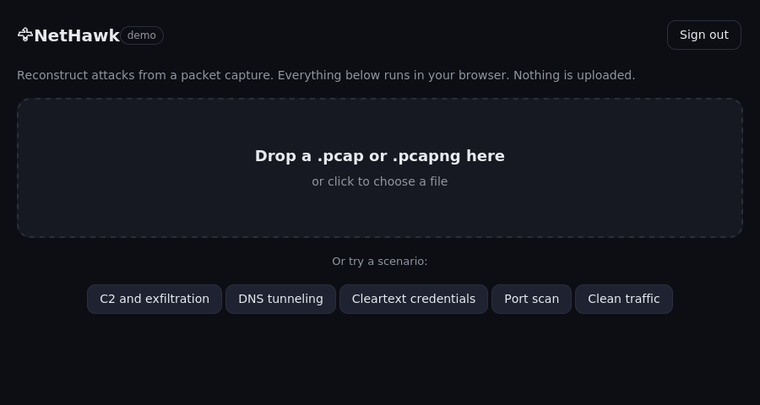
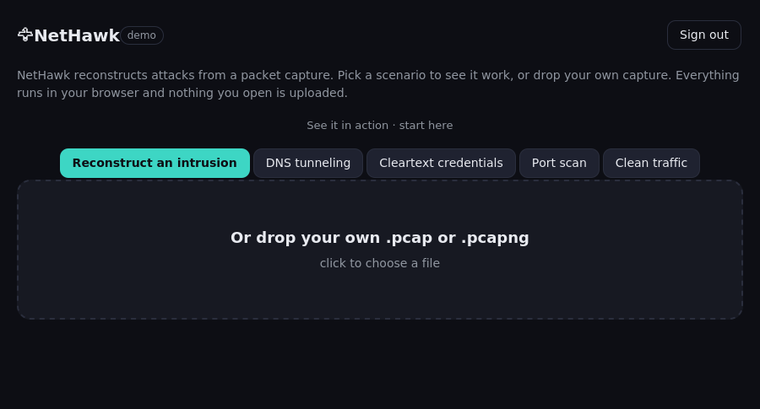
Lower the barrier to first use: one-click demo entry and a clearer storefront
Make the tool inviting to a newcomer. The demo now opens with the credentials
pre-filled so entry is a single Enter the demo click, framed as a friendly gate
rather than an auth wall, and the home leads with a highlighted Reconstruct an
intrusion so the first click gives the payoff. The README opens with a punchy
pitch, a prominent try-it-in-your-browser link, and a scannable why-you-would-use-it
list. Screenshots refreshed to match.

diff --git a/docs/index.html b/docs/index.html
@@ -15,7 +15,7 @@
 <div id="login" class="login">
   <div class="login-card">
     <div class="logo"><span style="font-size:24px">&#129413;</span><h1>NetHawk</h1></div>
-    <p class="sub">Sign in to the demo</p>
+    <p class="sub">See an attack reconstructed from a packet capture, right in your browser.</p>
     <form id="login-form" autocomplete="off">
       <div class="field">
         <label for="username">Username</label>
@@ -23,14 +23,13 @@
       </div>
       <div class="field">
         <label for="password">Password</label>
-        <input id="password" type="password">
+        <input id="password" type="password" value="nethawk">
       </div>
-      <button type="submit">Sign in</button>
+      <button type="submit">Enter the demo</button>
       <div id="login-err" class="login-err"></div>
     </form>
     <div class="hint">
-      Demo access. Username <b>demo</b>, password <b>nethawk</b>.<br>
-      This sign in is a front door for the public demo, not a security control. The check runs in your browser.
+      Already filled in, just press <b>Enter the demo</b>. Everything runs in your browser and nothing you open is uploaded. The sign in is a friendly gate for the public demo, not a security control.
     </div>
   </div>
 </div>
@@ -51,20 +50,20 @@
   </div>
 
   <div id="intro">
-    <p class="tag-line">Reconstruct attacks from a packet capture. Everything below runs in your browser. Nothing is uploaded.</p>
-    <div class="drop" id="drop">
-      <div class="big">Drop a .pcap or .pcapng here</div>
-      <div class="small">or click to choose a file</div>
-    </div>
+    <p class="tag-line">NetHawk reconstructs attacks from a packet capture. Pick a scenario to see it work, or drop your own capture. Everything runs in your browser and nothing you open is uploaded.</p>
     <div class="samples">
-      <div class="samples-label">Or try a scenario:</div>
+      <div class="samples-label">See it in action &middot; start here</div>
       <div class="row">
-        <button class="btn samp" data-scenario="incident">C2 and exfiltration</button>
+        <button class="btn samp primary" data-scenario="incident">Reconstruct an intrusion</button>
         <button class="btn samp" data-scenario="dns_tunnel">DNS tunneling</button>
         <button class="btn samp" data-scenario="cleartext">Cleartext credentials</button>
         <button class="btn samp" data-scenario="scan">Port scan</button>
         <button class="btn samp" data-scenario="clean">Clean traffic</button>
       </div>
+    </div>
+    <div class="drop" id="drop">
+      <div class="big">Or drop your own .pcap or .pcapng</div>
+      <div class="small">click to choose a file</div>
     </div>
     <div id="err" class="err"></div>
     <input id="file" type="file" accept=".pcap,.pcapng,.cap" style="display:none">

diff --git a/docs/app/styles.css b/docs/app/styles.css
@@ -116,6 +116,8 @@ tr.on td{background:rgba(61,214,196,0.10)}
 .keyhint b{color:var(--text);font-family:ui-monospace,SFMono-Regular,Menlo,monospace;background:var(--panel2);border:1px solid var(--line);border-radius:4px;padding:1px 6px;margin:0 1px}
 .samples{margin-top:18px}
 .samples-label{color:var(--dim);font-size:13px;margin-bottom:8px;text-align:center}
+.btn.samp.primary{background:var(--teal);color:#0d0e14;border-color:var(--teal);font-weight:700}
+.btn.samp.primary:hover{filter:brightness(1.05)}
 .panel{overflow-x:auto}
 @media (max-width:640px){
   .wrap{padding:16px 12px 60px}

diff --git a/README.md b/README.md
@@ -2,9 +2,9 @@
 
 # 🦅 NetHawk
 
-### Reconstruct attacks from a packet capture.
+### Reconstruct attacks from a packet capture
 
-NetHawk reads a pcap and tells you the story inside it. It parses the traffic, rebuilds the conversations, finds the suspicious behavior, and then correlates those signals into incidents with a timeline and a confidence score. Instead of a wall of alerts, you get a short answer to the question that matters: what happened, on which host, and how sure are we. Use it from the command line, or open the built in web dashboard. One single, zero dependency Python tool you can drop onto an incident response box with nothing to install.
+Drop in a capture and NetHawk rebuilds the conversations, flags the suspicious behavior, and correlates it into incidents, each with a timeline, a confidence score, and a plain English writeup. Not a wall of alerts, but a short answer to what happened, on which host, and how sure it is.
 
 [![Live demo](https://img.shields.io/badge/live%20demo-online-3DD6C4?style=flat-square)](https://siteq8.github.io/NetHawk/)
 [![Release](https://img.shields.io/badge/release-v0.3.0-8B5CF6?style=flat-square)](https://github.com/SiteQ8/NetHawk/releases/latest)
@@ -12,15 +12,25 @@ NetHawk reads a pcap and tells you the story inside it. It parses the traffic, r
 ![Zero dependencies](https://img.shields.io/badge/dependencies-none-F5C542?style=flat-square)
 ![Python](https://img.shields.io/badge/python-3.9%2B-8B5CF6?style=flat-square)
 
+**[Try it live in your browser](https://siteq8.github.io/NetHawk/)** (no install, and nothing you open is uploaded)
+
 <br>
 
 <img src="docs/demo.gif" width="820" alt="NetHawk analyzing a capture and reconstructing an incident" />
 
 </div>
 
+## Why you would use it
+
+* **Answers, not alerts.** Each incident becomes a timeline with a confidence score and a plain English summary you can paste straight into a ticket.
+* **Installs nothing.** One zero dependency Python tool, plus a browser demo that needs no install at all.
+* **Reads real captures.** pcap and pcapng in either byte order, IPv4 and IPv6, VLAN and QinQ, checked against more than eighty real captures.
+* **Private by default.** The browser demo analyzes your capture locally and never uploads it, and the tool only ever reads captures, never sends traffic.
+* **Nothing to take on trust.** Every finding shows the evidence behind it and maps to a MITRE ATT&CK technique.
+
 ## Live demo
 
-There is a hosted demo that runs the whole tool in your browser at **https://siteq8.github.io/NetHawk/**. Sign in with username `demo` and password `nethawk`, then drop a capture in or try one of the built in scenarios: a full intrusion with command and control and exfiltration, DNS tunneling, credentials sent in clear text, a port scan, or clean traffic with nothing to find. The analysis engine is ported to JavaScript and runs client side, so nothing you open is uploaded anywhere. The view is shareable: the address bar updates as you pick a scenario, switch tabs, and focus a host, so a link reopens exactly what you were looking at. The sign in is a front door for the public demo, not a security control.
+Open [the hosted demo](https://siteq8.github.io/NetHawk/) and press **Enter the demo**; the credentials are already filled in. Then pick a scenario, an intrusion with command and control and exfiltration, DNS tunneling, credentials sent in clear text, a port scan, or clean traffic with nothing to find, or drop your own capture. The analysis engine is ported to JavaScript and runs client side, so nothing you open leaves your browser. The view is shareable too: the address bar updates as you pick a scenario, switch tabs, and focus a host, so a link reopens exactly what you were looking at.
 
 <div align="center">
 <img src="docs/pages_login.png" width="600" alt="The demo sign in screen" />
